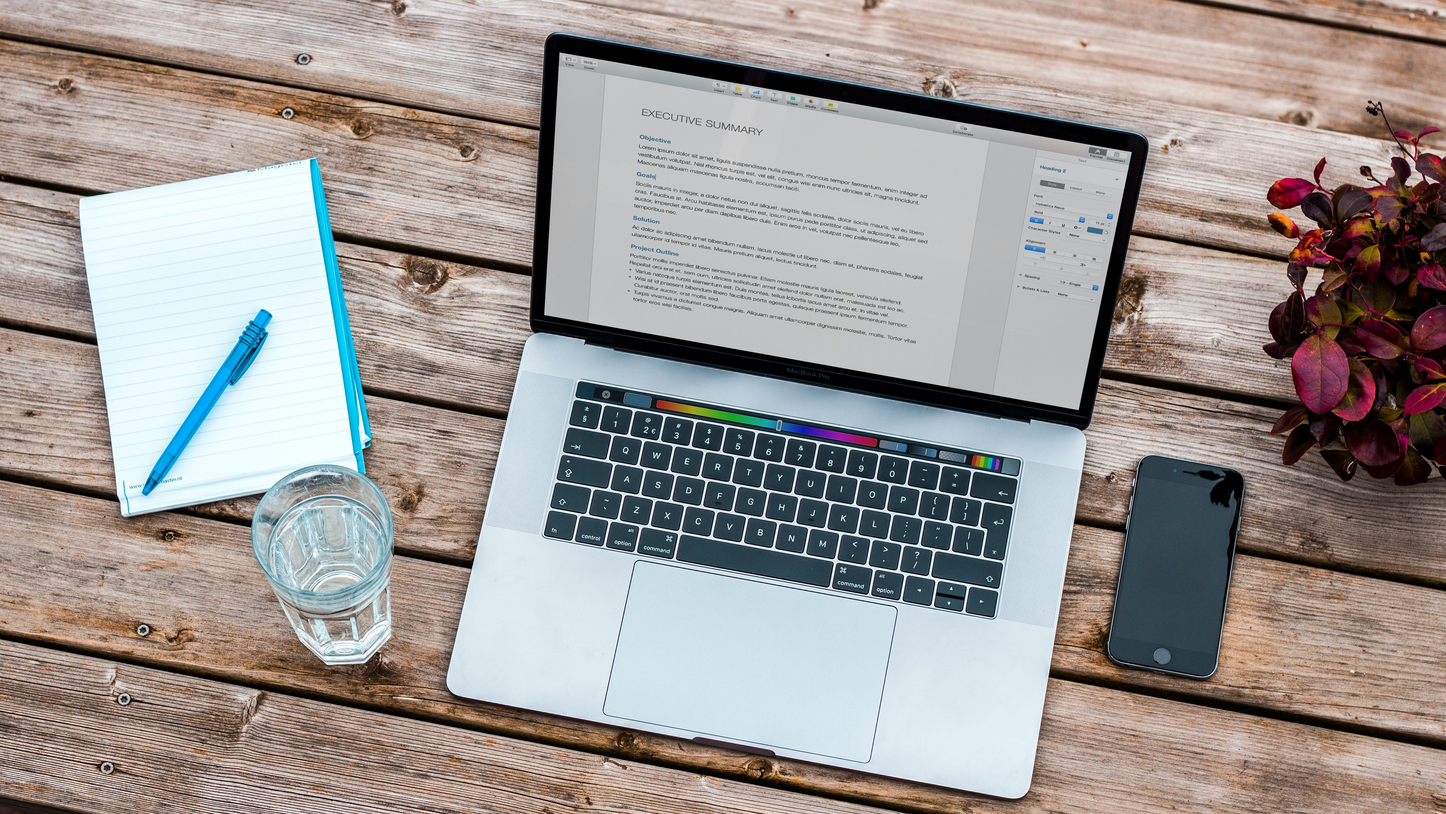
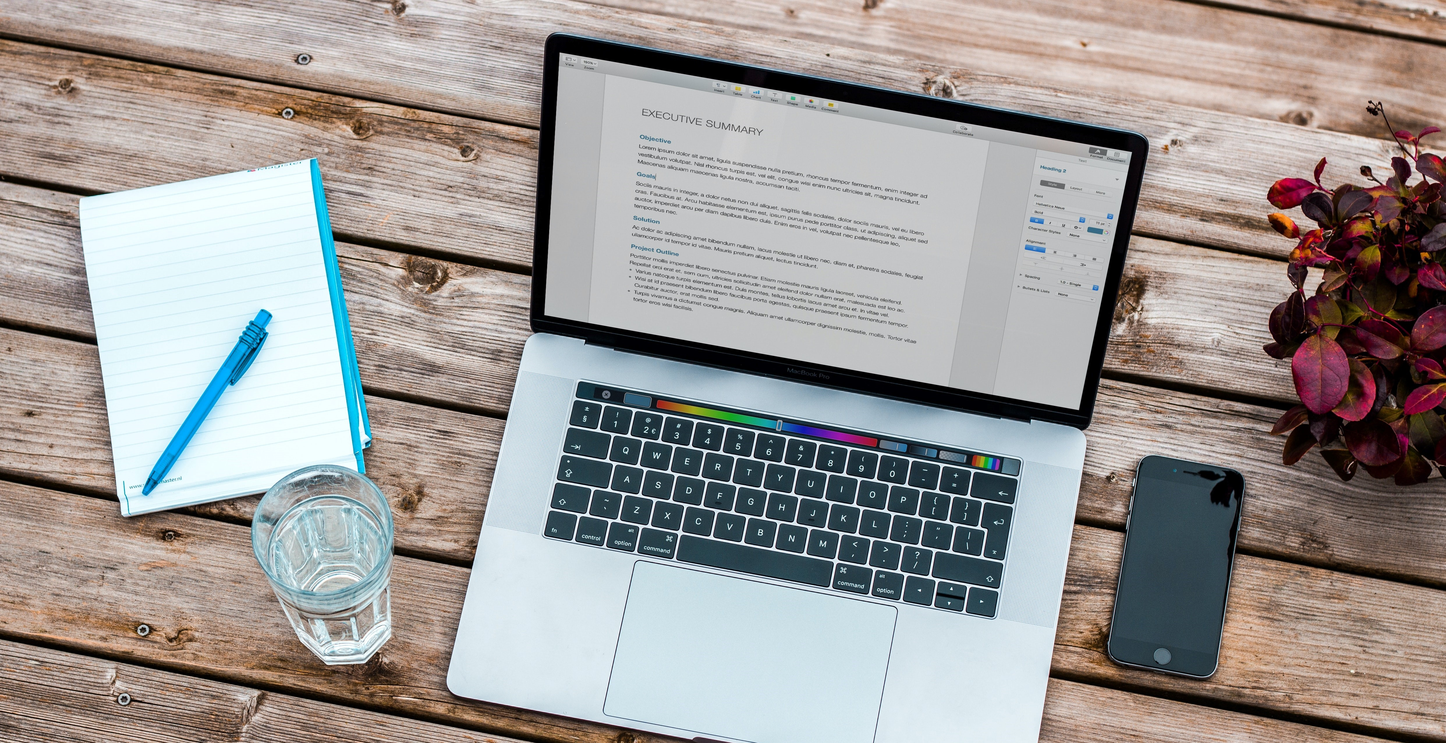
modified syle and fixed error

diff --git a/template/home.html b/template/home.html
@@ -9,14 +9,14 @@
 
 
 <div class="container" style="text-align:center;">
-  <img src="/static/images/notebook2.jpg" alt="Notebook" style="width:100%;">
+  <img src="/static/images/notebook2.jpg" alt="Notebook" style="width: 100%;">
   <div class="content">
     <h1 class="header">Online Resume Builder</h1>
 	<h3>Build your resume online</h3>
     <h3>and land your dream job!!!</h3>
   </div>
 </div>
-
+<br><br>
   <center>
 	<p>The perfect resume should detail out all your professional positions.
 	<p>What technical platforms and tools are you proficient? List all that apply to your work</p>
@@ -31,7 +31,5 @@
 	<h4>Click on below button to create your resume</h4>
     <button type="submit" style="font-size:15px;border-radius: 20px;border:none;width: 15%;height: 40px;background-color: #45a049;" onclick="window.location.href='{{ url_for( 'submit') }}';">Create Resume</button>
   </center>
-  <br><br><br>
-  <br><br><br>
   </body>
 {% endblock content %}

diff --git a/template/about.html b/template/about.html
@@ -12,7 +12,7 @@
     <center>
   <div class="container">
   <div class="about_me">
-    <br>
+    <br><br><br>
     <h4>About me</h4>
       <p>Working as a Python Automation Developer in TCS and passionate about cutting-edge</p>
       <p>technology and solving real world problems, with previous experience in Quality Assurance -automation and manual testing.</p>
@@ -22,6 +22,7 @@
     <p>Please find the Contact Details given in the footer:</p>
     <p>Click on <strong>LinkedIn</strong> below to get my LinkedIn profile</p>
   </div>
+  <br><br>
     </div>
     </div>
   </center>

diff --git a/template/template.html b/template/template.html
@@ -4,7 +4,7 @@
     <meta charset="utf-8">
     <title>Online Resume Builder</title>
     <link rel="stylesheet" href="{{ url_for('static', filename='css/template.css') }}">
-    <link rel="stylesheet" href="https://maxcdn.bootstrapcdn.com/bootstrap/3.4.1/css/bootstrap.min.css>
+    <link rel="stylesheet" href="https://maxcdn.bootstrapcdn.com/bootstrap/3.4.1/css/bootstrap.min.css">
     <script src="https://ajax.googleapis.com/ajax/libs/jquery/3.5.1/jquery.min.js"></script>
     <script src="https://maxcdn.bootstrapcdn.com/bootstrap/3.4.1/js/bootstrap.min.js"></script>
 </head>

diff --git a/static/css/template.css b/static/css/template.css
@@ -74,10 +74,12 @@ body {
 
 .container {
   position: relative;
-  max-width: 100%;
 }
 
-.container img {vertical-align: middle;}
+.container img {
+  vertical-align: middle;
+  width: 100%;
+  }
 
 .container .content {
   position: absolute;
